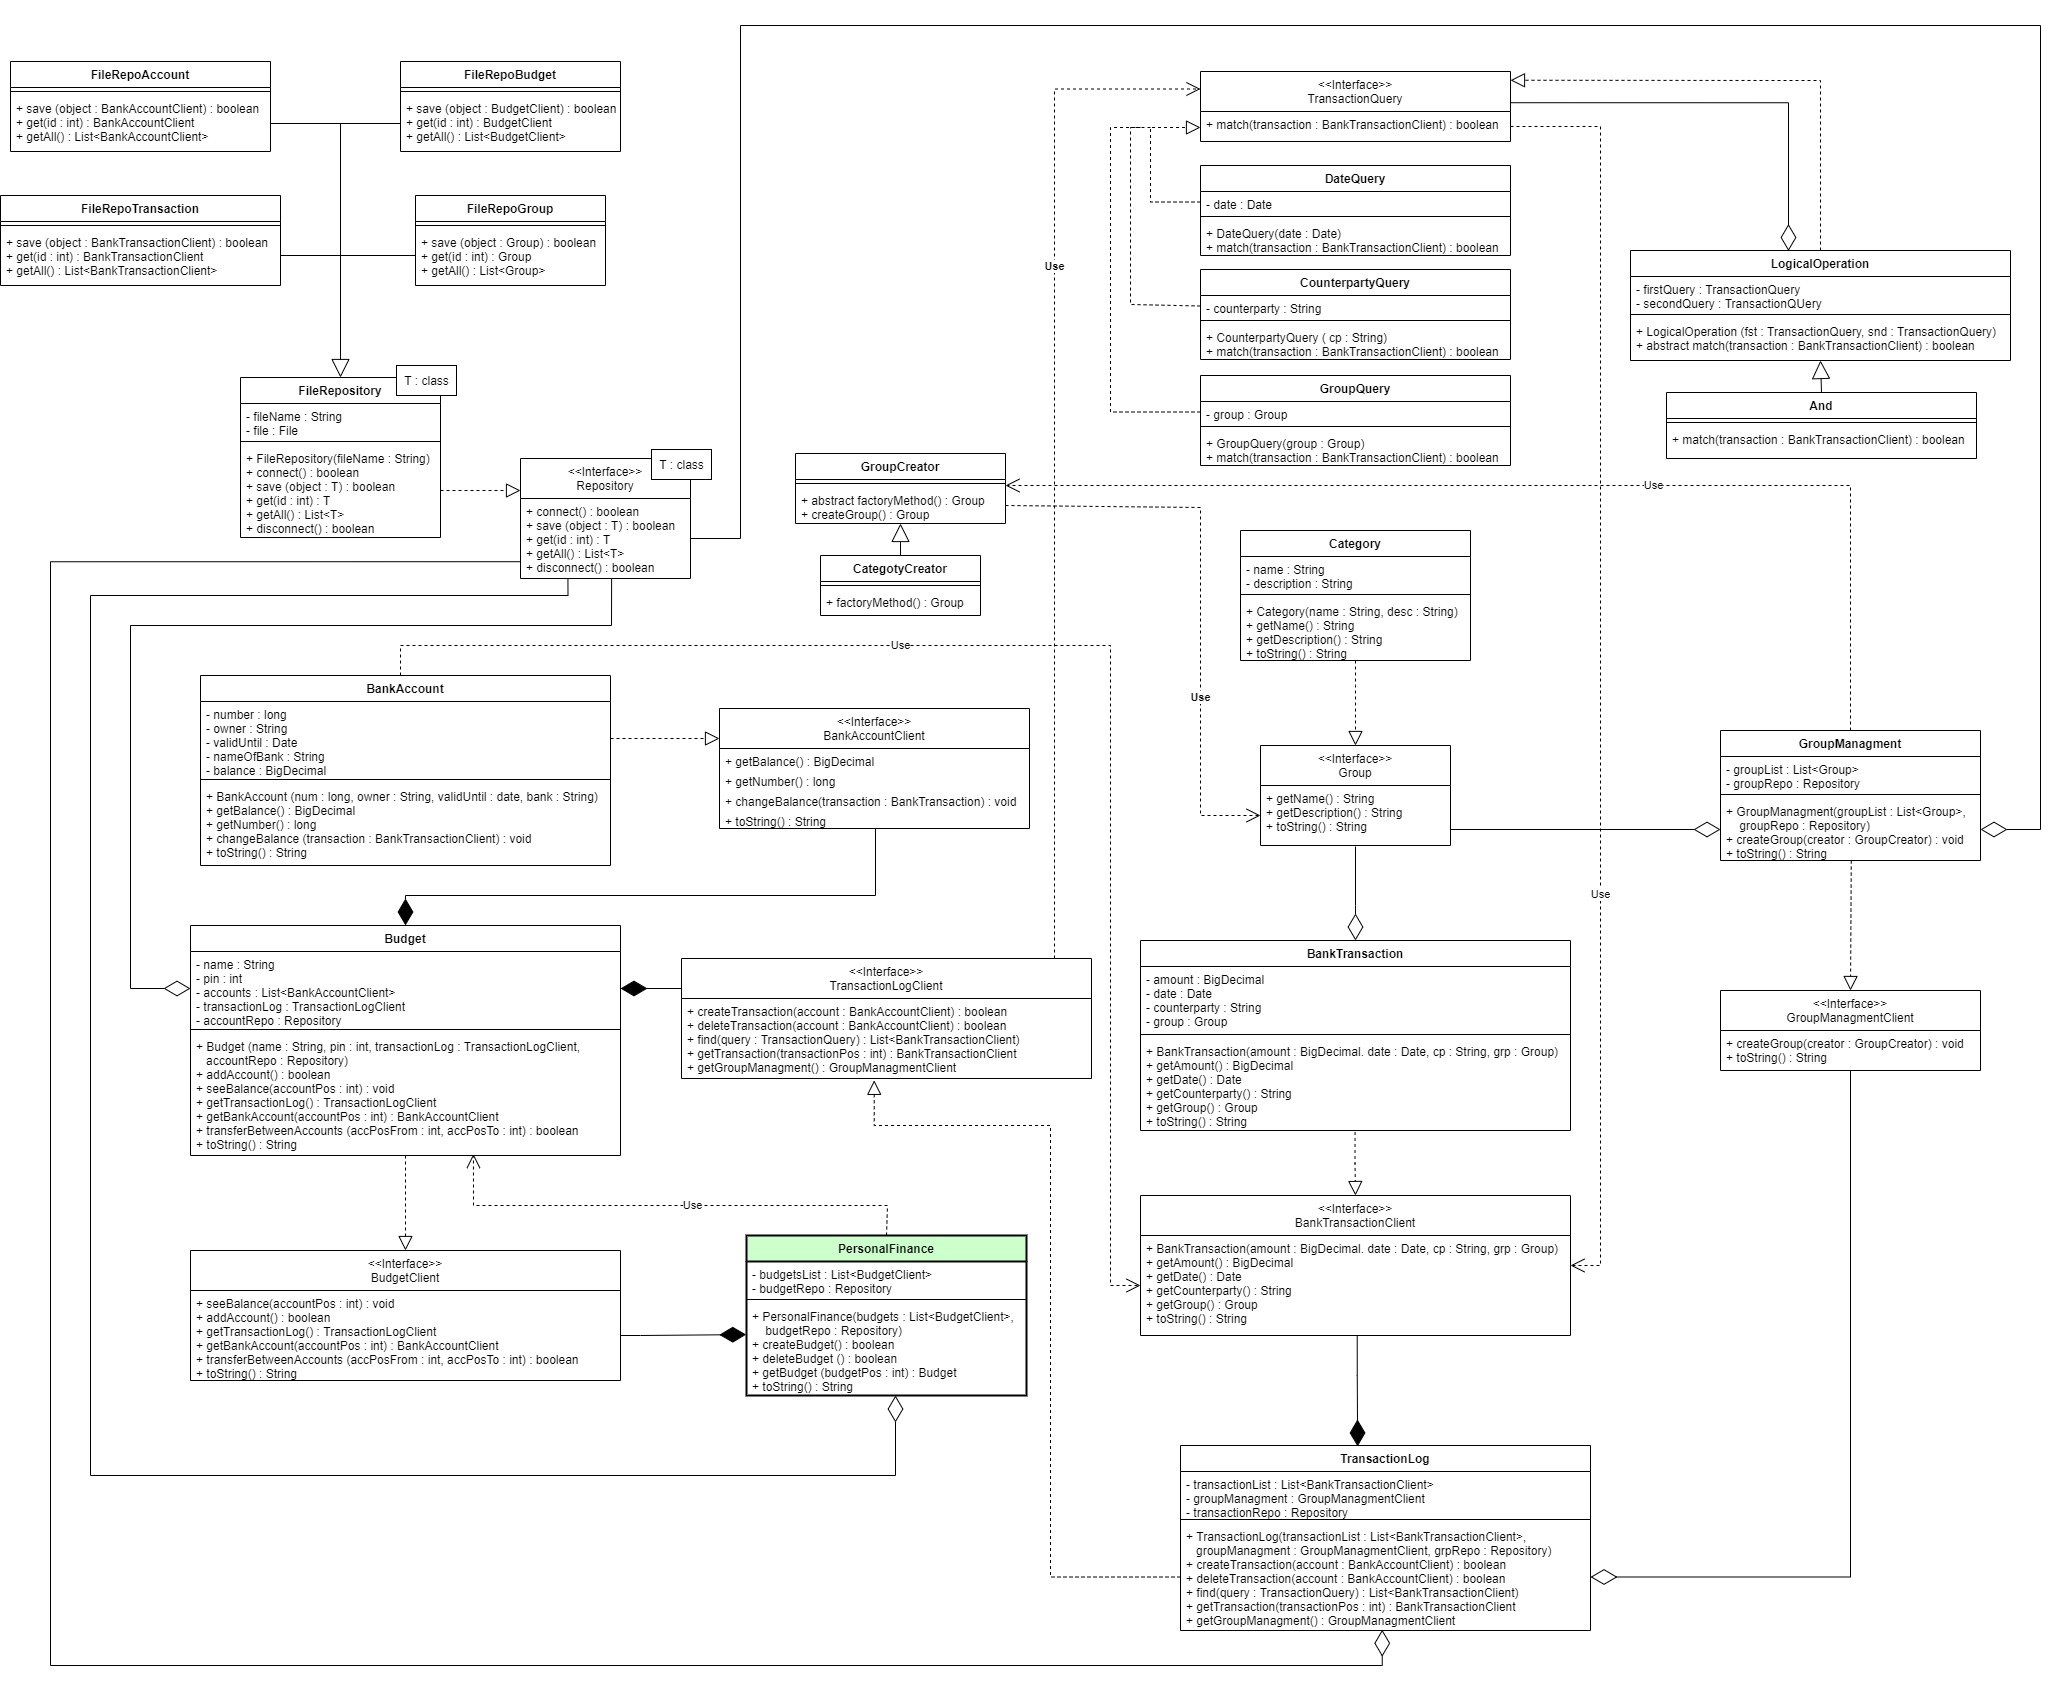
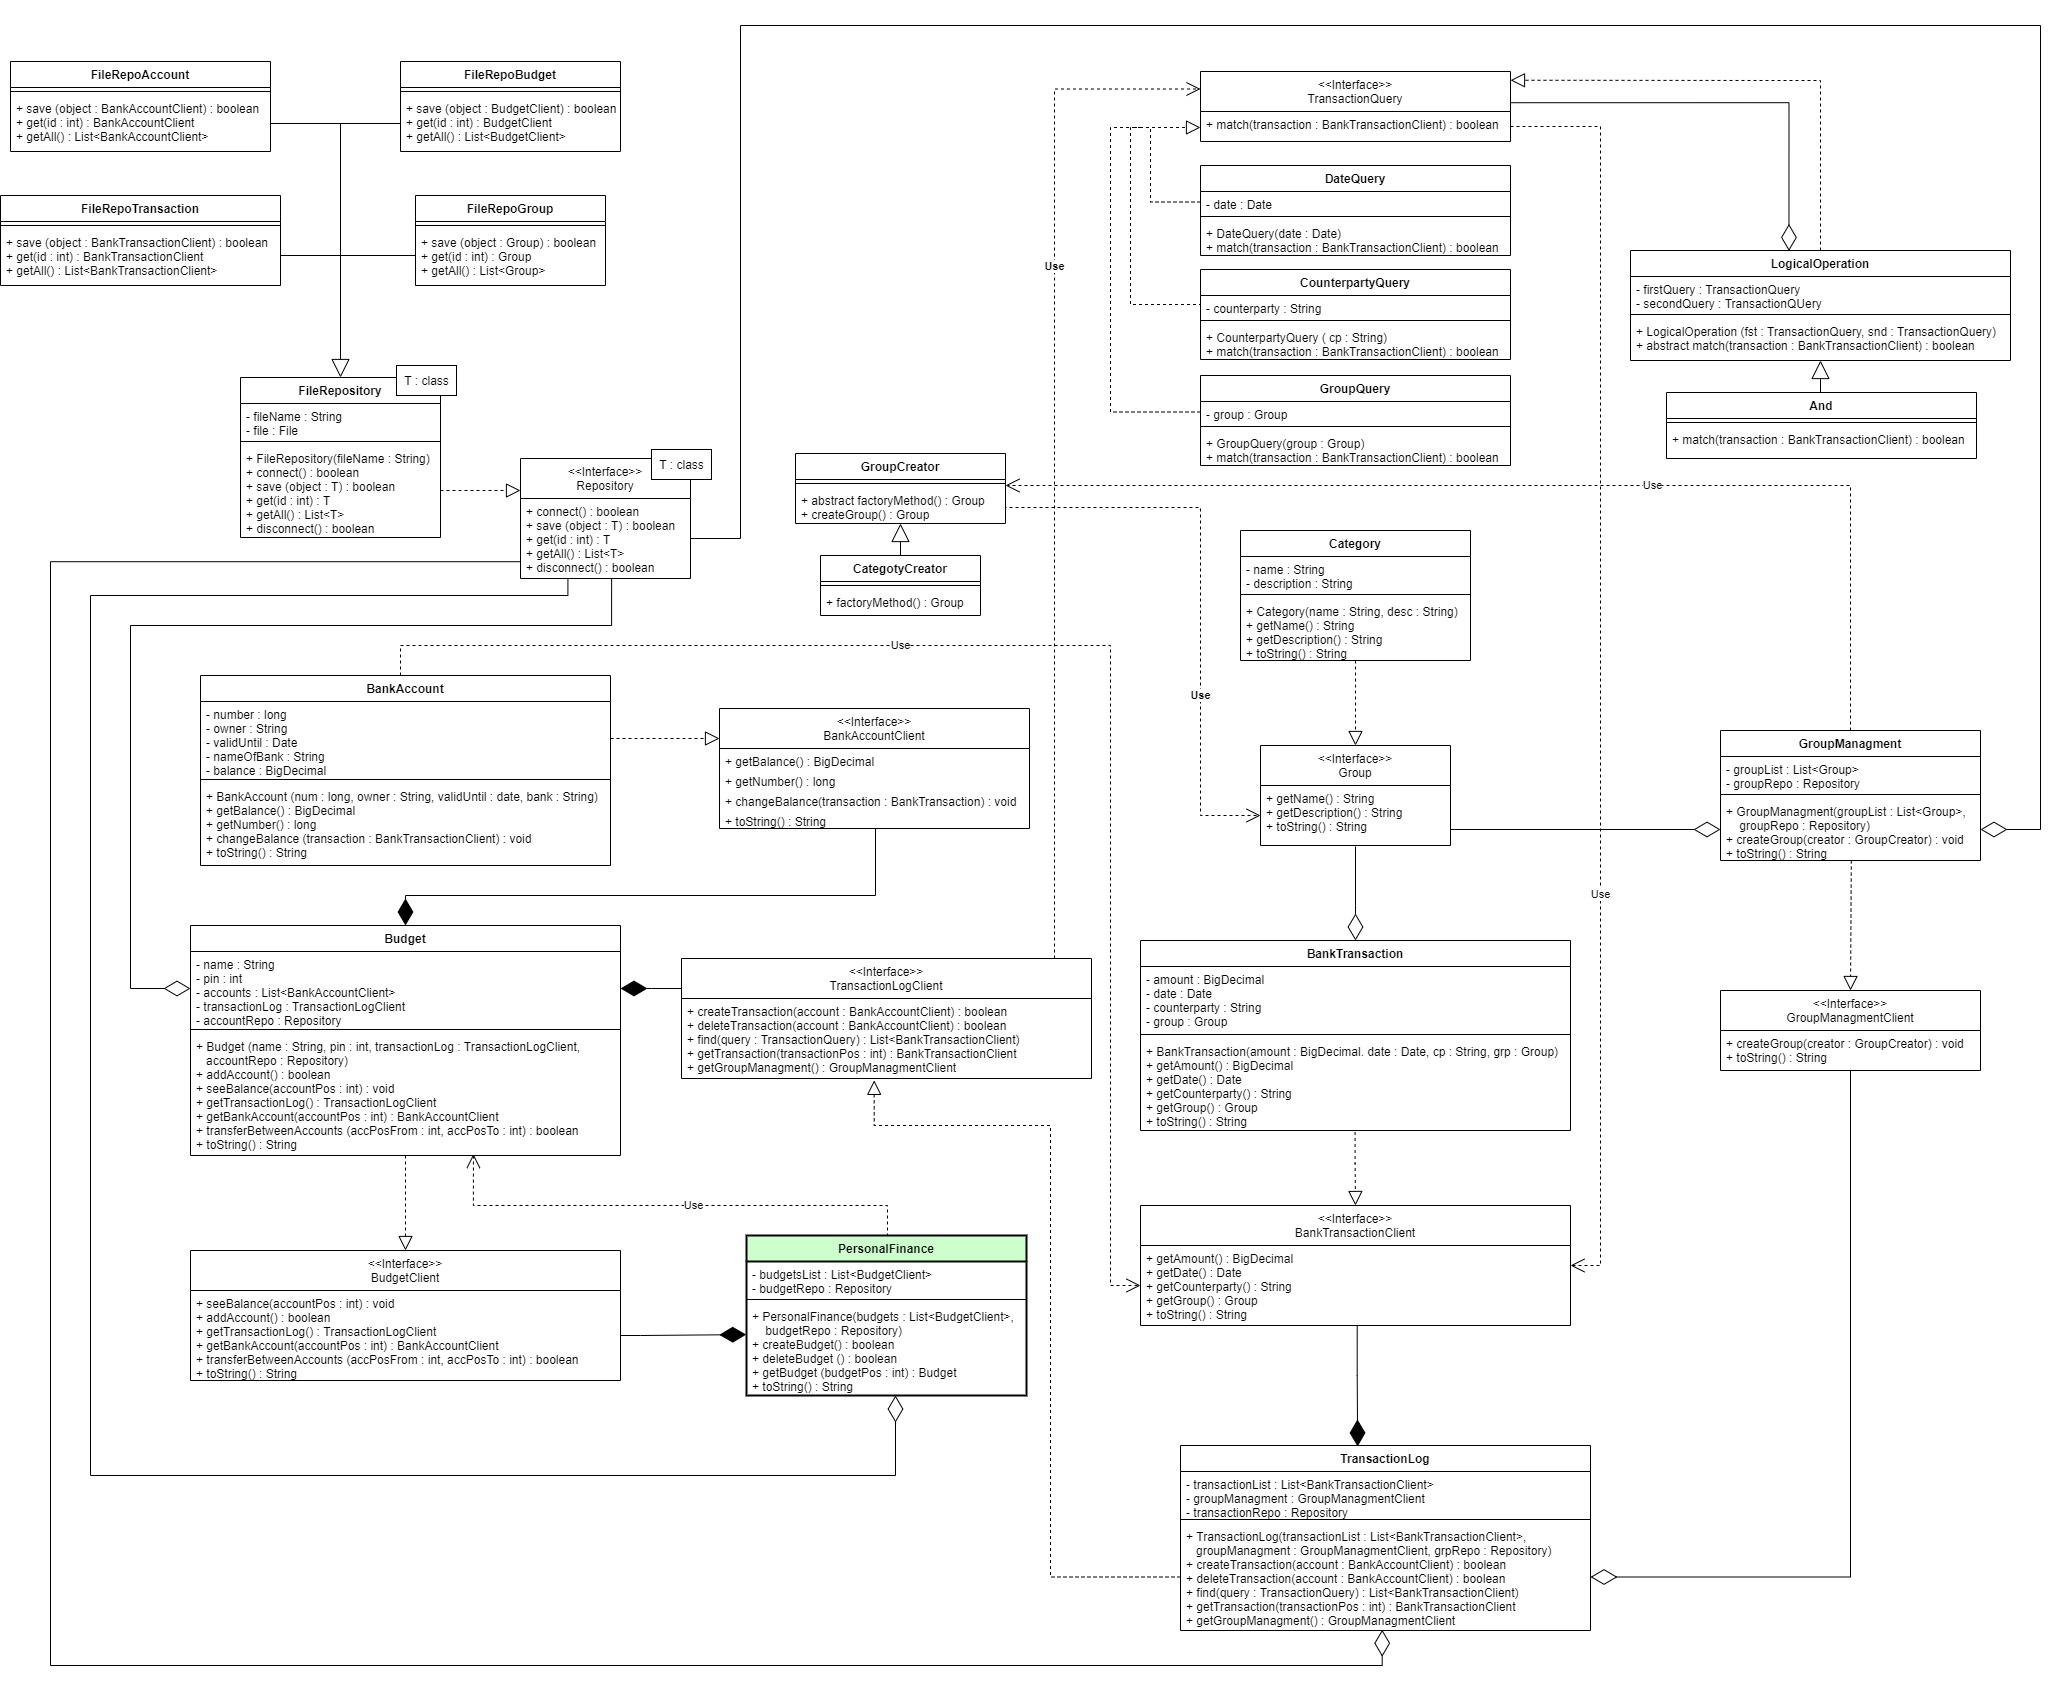
create account, transaction, group and repository

diff --git a/models/BankTransaction.java b/models/BankTransaction.java
@@ -1,0 +1,40 @@
+package models;
+
+import java.math.BigDecimal;
+import java.util.Date;
+
+// конкретный класс Банковской транзакции, реализующий наш интерфейс
+public class BankTransaction implements BankTransactionClient {
+    private BigDecimal amount; // сумма
+    private Date date;
+    private String counterparty; // контрагент - одна из сторон договора о транзакции 
+    private Group group;    
+
+    BankTransaction(BigDecimal amount, Date date, String counterparty, Group group) {
+        this.amount = amount;
+        this.date = date;
+        this.counterparty = counterparty;
+        this.group = group;
+    }
+
+    public BigDecimal getAmount() {
+        return amount;
+    }
+
+    public Date getDate() {
+        return date;
+    }
+   
+    public String getCounterparty() {
+        return counterparty;
+    }
+
+    public Group getGroup() {
+        return group;
+    }
+
+    public String toString() {
+        return String.format("Транзакция на сумму: %d, совершена: %s, контрагент: %s, категория: %s", 
+            amount, date, counterparty, group.getName());
+    }
+}

diff --git a/models/BankAccount.java b/models/BankAccount.java
@@ -1,0 +1,38 @@
+package models;
+
+import java.math.BigDecimal;
+import java.util.Date;
+
+// конкретный класс банковского счет, реализующий наш интерфейс
+public class BankAccount implements BankAccountClient {
+    private long number;
+    private String owner;
+    private Date validUntil;
+    private String nameOfBank;
+    private BigDecimal balance;
+
+    BankAccount(long number, String owner, Date validUntil, String nameOfBank, BigDecimal balance) {
+        this.number = number;
+        this.owner = owner;
+        this.validUntil = validUntil;
+        this.nameOfBank = nameOfBank;
+        this.balance = balance;
+    }
+
+    public BigDecimal getBalance() {
+        return balance;
+    }
+
+    public long getNumber() {
+        return number;
+    }
+
+    public void changeBalance(BankTransactionClient transaction) {
+        balance = balance.add(transaction.getAmount());
+    }
+
+    public String toString() {
+        return String.format("Cчёт №%ld в банке %s, владелец: %s, действителен до %s, остаток на счету: %d", 
+            number, nameOfBank, owner, validUntil, balance);
+    }
+}

diff --git a/services/repositories/FileRepository.java b/services/repositories/FileRepository.java
@@ -1,0 +1,43 @@
+package services.repositories;
+
+import java.io.File;
+import java.io.FileNotFoundException;
+import java.util.List;
+import java.io.FileReader;
+import java.io.IOException;
+import java.io.BufferedReader;
+
+// абстрактный класс, реализующий файловое хранилище
+public abstract class FileRepository<T> implements Repository<T> {
+    private String fileName;
+    private File file;
+    private BufferedReader fileReader;
+
+    FileRepository(String fileName) {
+        this.fileName = fileName;
+    }
+
+    public void connect() {
+        try {
+            file = new File(fileName);
+            fileReader = new BufferedReader(new FileReader(file));
+        }
+        catch (FileNotFoundException exception) {
+            System.out.println(exception.getMessage());
+        }
+    }
+
+    public void disconnect() {
+        try {
+            fileReader.close();
+        }
+        catch (IOException exception) {
+            System.out.println(exception.getMessage());
+        }
+    }
+
+    public abstract boolean save(T object);
+    public abstract T get(int id);
+    public abstract List<T> getAll();
+
+}

diff --git a/models/Category.java b/models/Category.java
@@ -1,0 +1,25 @@
+package models;
+
+// класс Категория банковской транзакции 
+// реализует интерфейс Группа
+public class Category implements Group {
+    private String name;
+    private String description;
+
+    Category(String name, String description) {
+        this.name = name;
+        this.description = description;
+    }
+
+    public String getName() {
+        return name;
+    }
+
+    public String getDescription() {
+        return description;
+    }
+
+    public String toString() {
+        return String.format("Категория: %s, описание: %s", name, description);
+    }
+}

diff --git a/services/repositories/FileRepoTransaction.java b/services/repositories/FileRepoTransaction.java
@@ -1,0 +1,27 @@
+package services.repositories;
+
+import java.util.List;
+import models.BankTransactionClient;
+
+// файловое хранилище для групп транзакций
+public class FileRepoTransaction extends FileRepository<BankTransactionClient> {
+
+    FileRepoTransaction(String fileName) {
+        super(fileName);
+    }
+
+    @Override
+    public boolean save(BankTransactionClient transaction) {
+        return true;
+    }
+
+    @Override
+    public BankTransactionClient get(int id) {
+        return null;
+    }
+
+    @Override
+    public List<BankTransactionClient> getAll() {
+        return null;
+    }
+}

diff --git a/services/repositories/FileRepoAccount.java b/services/repositories/FileRepoAccount.java
@@ -1,0 +1,27 @@
+package services.repositories;
+
+import java.util.List;
+import models.BankAccountClient;
+
+// файловое хранилище для групп транзакций
+public class FileRepoAccount extends FileRepository<BankAccountClient> {
+
+    FileRepoAccount(String fileName) {
+        super(fileName);
+    }
+
+    @Override
+    public boolean save(BankAccountClient account) {
+        return true;
+    }
+
+    @Override
+    public BankAccountClient get(int id) {
+        return null;
+    }
+
+    @Override
+    public List<BankAccountClient> getAll() {
+        return null;
+    }
+}

diff --git a/services/repositories/FileRepoBudget.java b/services/repositories/FileRepoBudget.java
@@ -1,0 +1,27 @@
+package services.repositories;
+
+import java.util.List;
+import models.BudgetClient;
+
+// файловое хранилище для групп транзакций
+public class FileRepoBudget extends FileRepository<BudgetClient> {
+
+    FileRepoBudget(String fileName) {
+        super(fileName);
+    }
+
+    @Override
+    public boolean save(BudgetClient budget) {
+        return true;
+    }
+
+    @Override
+    public BudgetClient get(int id) {
+        return null;
+    }
+
+    @Override
+    public List<BudgetClient> getAll() {
+        return null;
+    }
+}

diff --git a/services/repositories/FileRepoGroup.java b/services/repositories/FileRepoGroup.java
@@ -1,0 +1,27 @@
+package services.repositories;
+
+import java.util.List;
+import models.Group;
+
+// файловое хранилище для групп транзакций
+public class FileRepoGroup extends FileRepository<Group> {
+
+    FileRepoGroup(String fileName) {
+        super(fileName);
+    }
+
+    @Override
+    public boolean save(Group group) {
+        return true;
+    }
+
+    @Override
+    public Group get(int id) {
+        return null;
+    }
+
+    @Override
+    public List<Group> getAll() {
+        return null;
+    }
+}

diff --git a/services/repositories/Repository.java b/services/repositories/Repository.java
@@ -1,0 +1,12 @@
+package services.repositories;
+
+import java.util.List;
+
+// интерфейс Хранилище для сохранения состояний отдельных объектов
+public interface Repository<T> {
+    public void connect();
+    public boolean save(T object);
+    public T get(int id);
+    public List<T> getAll();
+    public void disconnect();
+}

diff --git a/models/BankTransactionClient.java b/models/BankTransactionClient.java
@@ -1,0 +1,13 @@
+package models;
+
+import java.math.BigDecimal;
+import java.util.Date;
+
+// интерфейс Банковской транзакции
+public interface BankTransactionClient {
+    public BigDecimal getAmount();
+    public Date getDate();
+    public String getCounterparty();
+    public Group getGroup();
+    public String toString();
+}

diff --git a/models/BankAccountClient.java b/models/BankAccountClient.java
@@ -1,0 +1,11 @@
+package models;
+
+import java.math.BigDecimal;
+
+// интерфейс Банковского счёта
+public interface BankAccountClient {
+    BigDecimal getBalance();
+    long getNumber();
+    void changeBalance(BankTransactionClient transaction);
+    String toString();
+}

diff --git a/models/Group.java b/models/Group.java
@@ -1,0 +1,8 @@
+package models;
+
+// интерфейс для групп, на которые можно разбить банковские транзакции
+public interface Group {
+    public String getName();
+    public String getDescription();
+    public String toString();
+}
